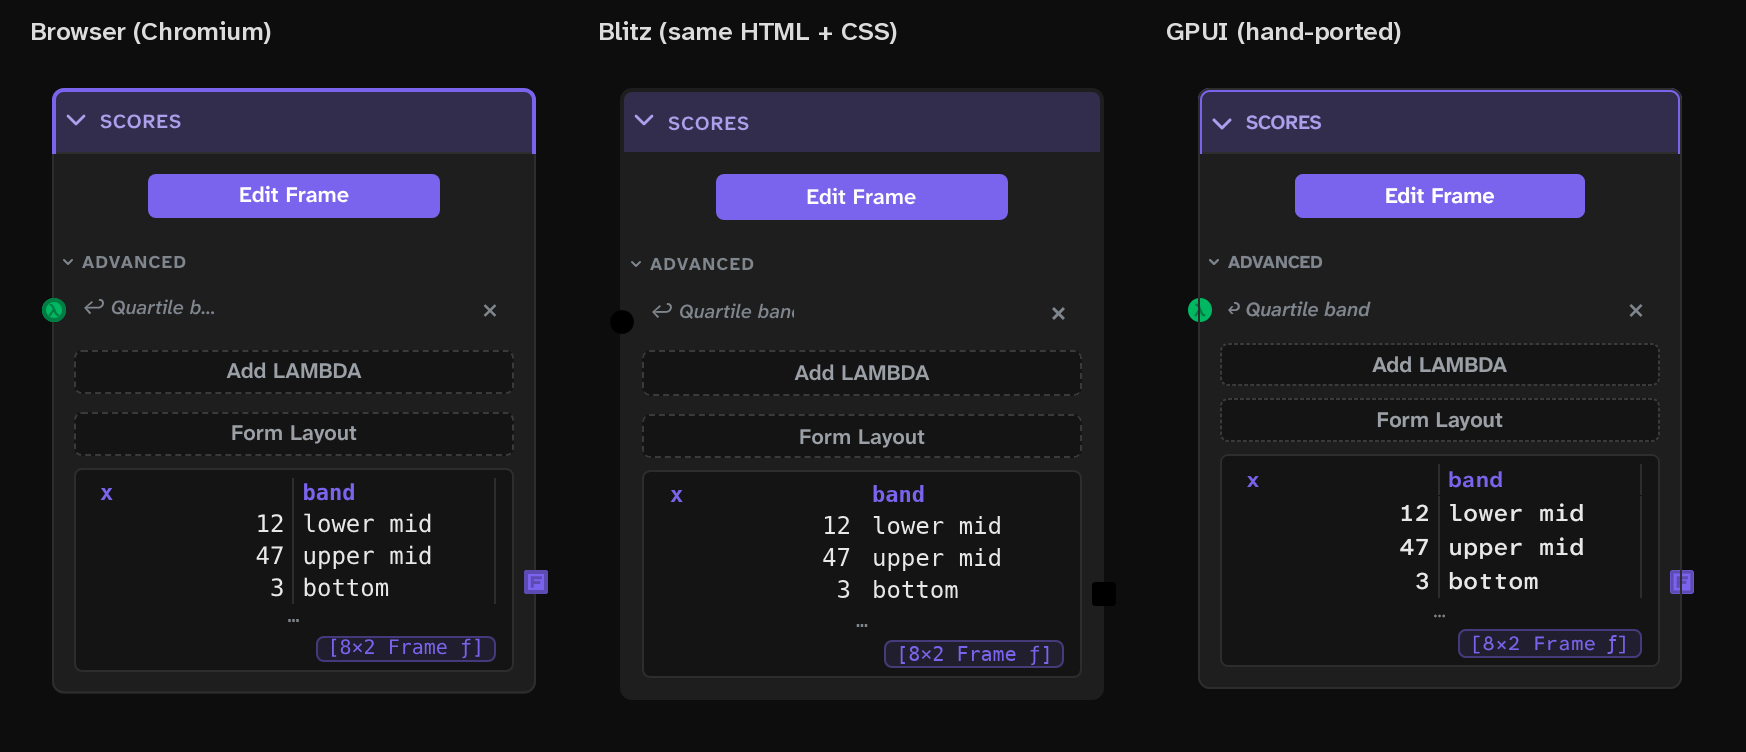
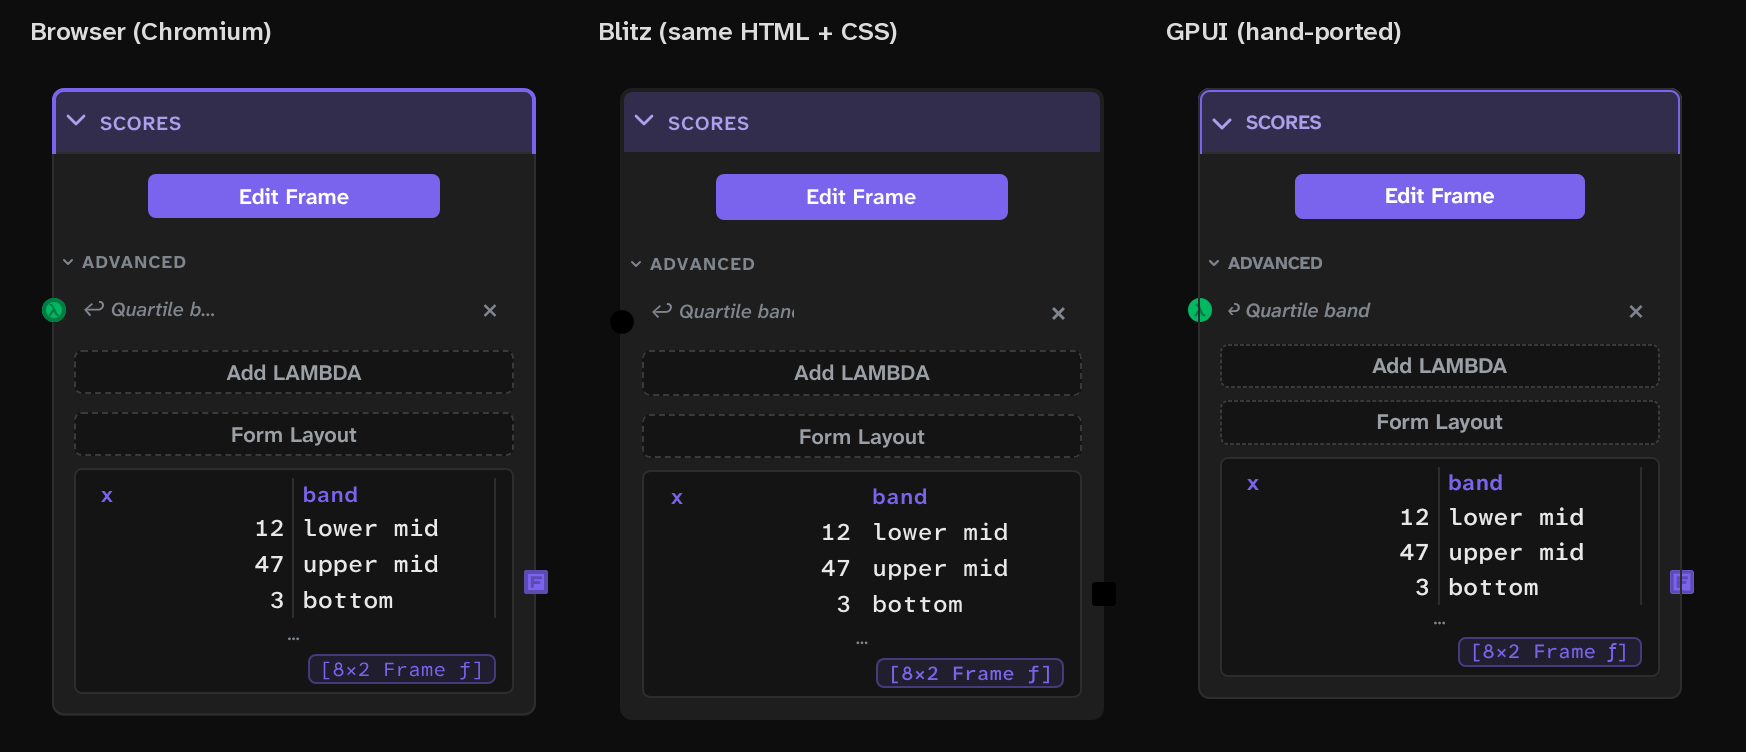
Redo the card renders with the app's web fonts loaded
The standalone pages were opened from file://, so Chromium refused the
app's woff2 fonts and drew the code in DejaVu Sans Mono; Blitz fell back
the same way. Served from the app's origin, both now draw Atkinson
Hyperlegible, and the GPUI port's line heights are re-taken from those
real metrics.

Claude-Session: https://claude.ai/code/session_01WUkSnTJhRs4hLCmSeZhupD

diff --git a/docs/rust-gpu-ui-findings.md b/docs/rust-gpu-ui-findings.md
@@ -168,17 +168,19 @@ LAMBDA card (wrapping syntax-highlighted code, sockets) and its Frame Input card
 borders, a preview grid, a chip). Static rendering only; no typing, hover or drag was tested.
 
 - **The cards are almost entirely CSS.** Each card's live DOM and every stylesheet, copied into a
-  standalone page, renders identically in Chromium with no app running. The LAMBDA card is 79 elements
+  standalone page served from the app's origin (so its web fonts load), renders identically in
+  Chromium with no app running. The LAMBDA card is 79 elements
   styled by 49 rules, the Frame Input card 56 elements and 45 rules; the only non-CSS parts are five
   small inline SVGs per card (the header frame, the sockets, icons). No canvas.
 - **Blitz** (git main 2026-10-24, 0.3.0-beta.4, `vello_cpu`) rendered that same page, unmodified:
-  fonts, `color-mix()` tints, the token colors, the wrap, dashed borders, buttons, the chip and even the
+  the app's own woff2 web fonts (fetched over HTTP), `color-mix()` tints, the token colors, the wrap,
+  dashed borders, buttons, the chip and even the
   chevron (a CSS mask over a data-URI SVG) all came through. It missed five things, all small: the
   header's accent outline (an SVG `rect` sized by CSS geometry properties), the socket colors (SVG
   `fill="var(--…)"`), the input placeholder, the grid's column rules (`border-right` on `td`) and the
   ellipsis on a clipped label. Each is either a Blitz gap or a one-line markup change on our side.
 - **GPUI** (crates.io 0.2.2) needed the cards written again, 320 lines of Rust for the two (the
-  header and frame chrome shared), from the computed styles Chromium reports. After three rounds it
+  header and frame chrome shared), from the computed styles Chromium reports. After four rounds it
   is close but not the same, and every gap was hand work:
   - no CSS variables or `color-mix()`: every theme color is computed and kept as a Rust constant,
     which a palette switch would need as a theme struct;
